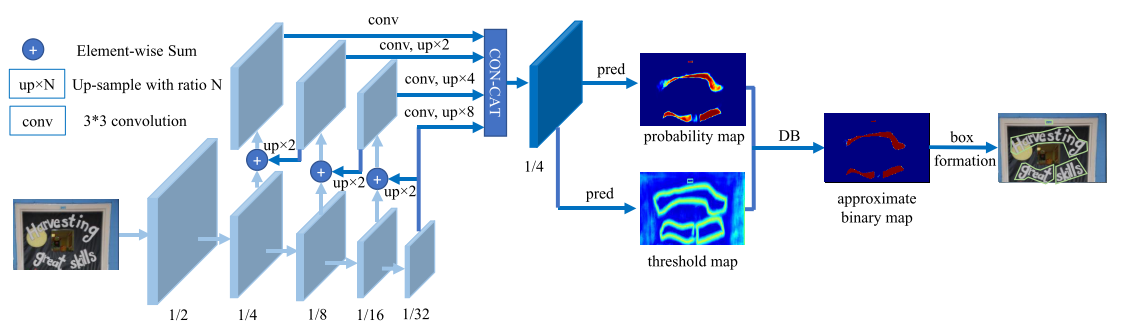
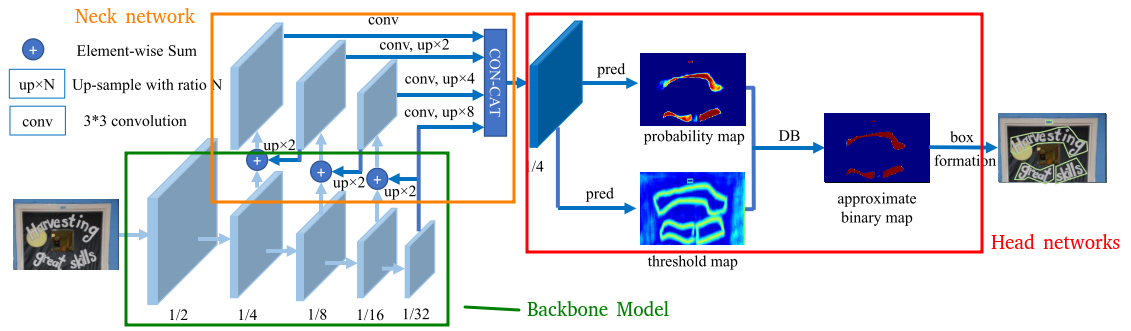
update: network docs

Changed region(s): [[0.0619, 0.0302, 0.8665, 0.997], [0.8665, 0.0604, 0.9903, 0.7553]]

diff --git a/src/models/backbone/resnet.py b/src/models/backbone/resnet.py
@@ -18,6 +18,7 @@ class BackboneDB(nn.Module):
         self.relu = backbone.relu
         self.maxpool = backbone.maxpool
         # Features
+        import ipdb; ipdb.set_trace()
         self.layer1 = backbone.layer1 # 1/4
         self.layer2 = backbone.layer2 # 1/8
         self.layer3 = backbone.layer3 # 1/16

diff --git a/src/models/README.md b/src/models/README.md
@@ -1,13 +1,65 @@
 # Understanding of Architecture Network
 
-The Differential Binarization Algorithm is one of the cutting-edge approaches to effectively detect curved text. 
+The Differential Binarization (DB) Algorithm is one of the cutting-edge approaches to effectively detect curved text. 
 + Improved Text Detection: The algorithm excels at accurately identifying text within images, even when it's curved or distorted.
 + Accurate Text Recognition: It paves the way for more precise text recognition, ensuring that the text is correctly extracted and understood.
   
-DB works quite well when using a light-weight backbone, which significantly enhances the detection performance with a backbone of ResNet-18
+DB works quite well when using a lightweight backbone, which significantly enhances the detection performance with a backbone of ResNet-18. In the Neck network, the features are up-sampled to the same scale and cascaded to produce feature $F$. Then, feature $F$ is used to predict both the probability map $P$ and threshold map $T$ in the Head network.
+After that, the approximate binary map $B$ is calculated by $P$ and $F$.
 
 <p align="center">
     <img src="../../images/architecture.png">
 </p>
 
 ## 1. Backbone
+
+First, we use extracted features from the different scales of layers (layers 1, 2, 3, 4) in the ResNet-18 backbone
+
+```python
+from __future__ import division
+from __future__ import print_function
+from __future__ import absolute_import
+
+import torch
+import torchvision
+import torch.nn as nn
+import torch.nn.functional as F
+
+
+class BackboneDB(nn.Module):
+    def __init__(self) -> None:
+        super(BackboneDB, self).__init__()
+        backbone = torchvision.models.resnet18(weights=torchvision.models.ResNet18_Weights.DEFAULT)
+
+        self.conv1 = backbone.conv1
+        self.bn1 = backbone.bn1
+        self.relu = backbone.relu
+        self.maxpool = backbone.maxpool
+        # Features
+        self.layer1 = backbone.layer1 # 1/4
+        self.layer2 = backbone.layer2 # 1/8
+        self.layer3 = backbone.layer3 # 1/16
+        self.layer4 = backbone.layer4 # 1/32
+        # Out channels
+        self.out_channels = [self.layer1[-1].conv2.out_channels,
+                             self.layer2[-1].conv2.out_channels,
+                             self.layer3[-1].conv2.out_channels,
+                             self.layer4[-1].conv2.out_channels]
+
+    
+    def forward(self, x):
+        x = self.conv1(x)
+        x = self.bn1(x)
+        x = self.relu(x)
+        x = self.maxpool(x)
+
+        x2 = self.layer1(x)
+        x3 = self.layer2(x2)
+        x4 = self.layer3(x3)
+        x5 = self.layer4(x4)
+        
+        return x2, x3, x4, x5
+```
+
+## 2. Neck Network
+Next, the features are up-sampled to the same scale by using Conv+Bn+ReLu module
